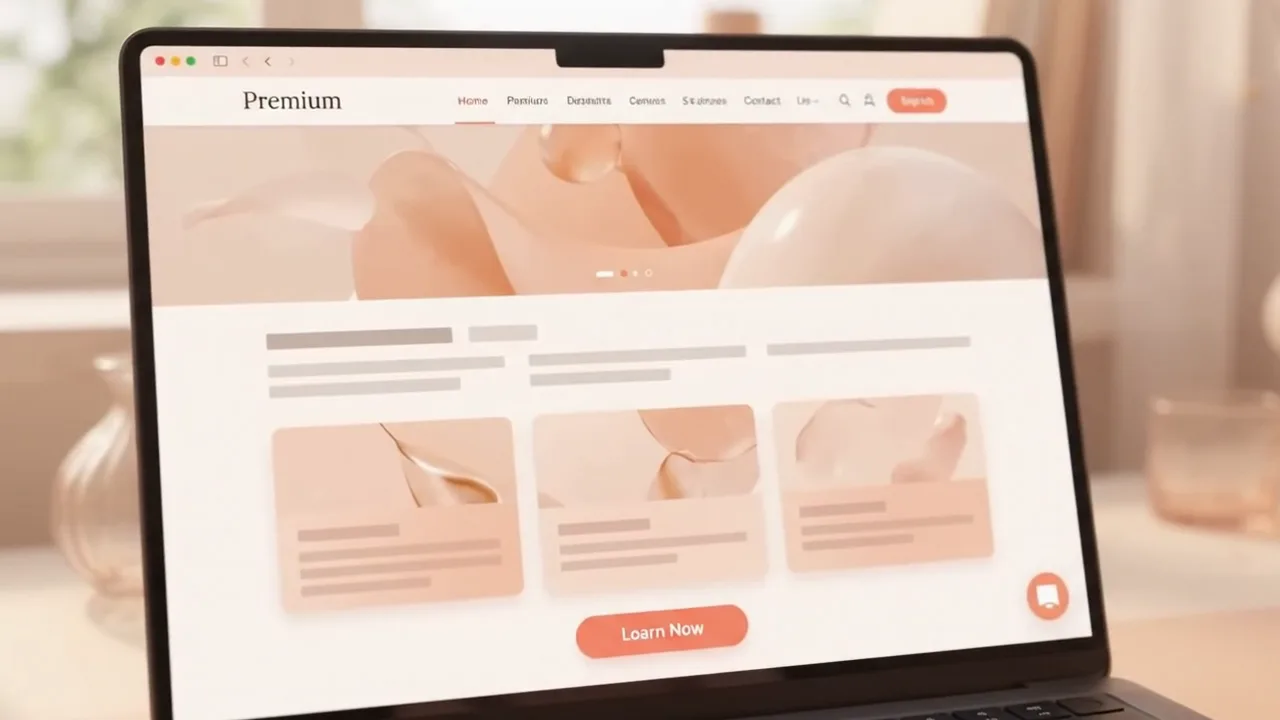
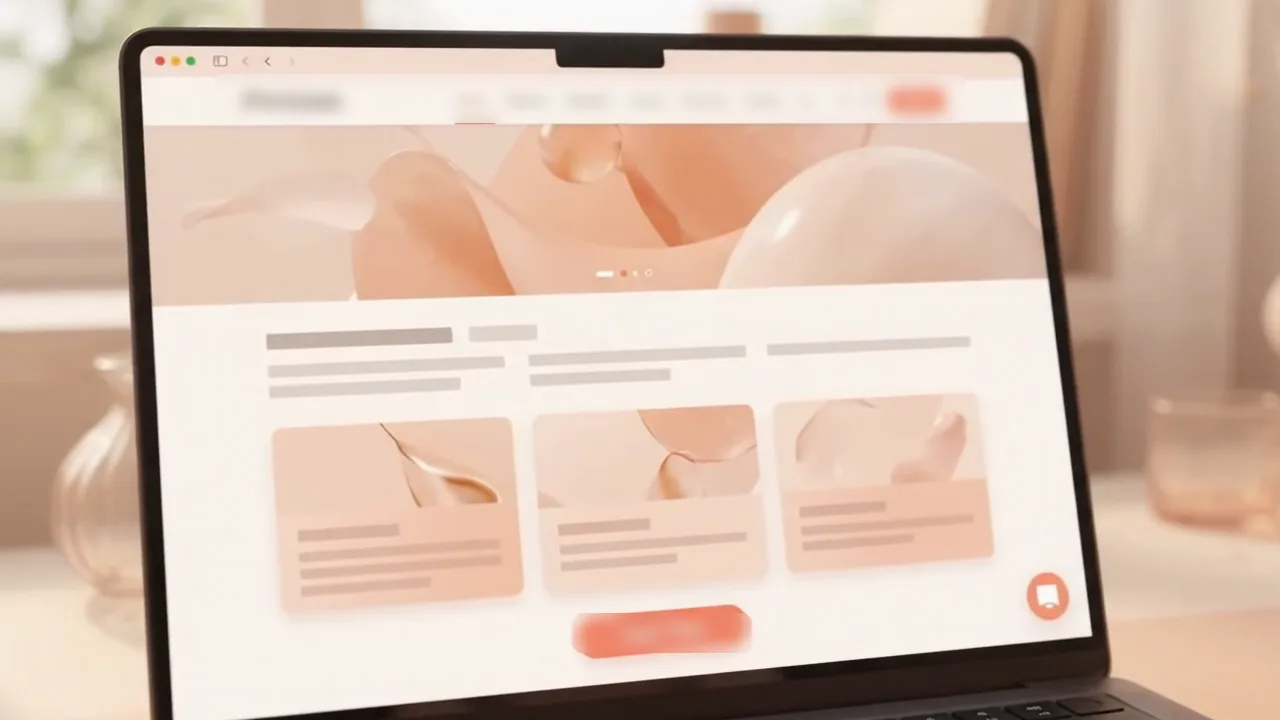
Animate course page headings and blur made-up text in the video
Course pages now animate their head on arrival and reveal each section
title word by word as it scrolls in. The home course video gets tracked
blurs over the lettering Flow invented, and the reduced-motion still is
blurred too. The anti-flash script moves to src/lib/intro.ts.

diff --git a/src/components/CourseScrollVideo.tsx b/src/components/CourseScrollVideo.tsx
@@ -11,6 +11,51 @@ const SRC = "/videos/curso-scroll.mp4";
 const FIRST_FRAME = "/videos/curso-scroll-inicio.webp";
 const LAST_FRAME = "/videos/curso-scroll.webp";
 
+// Blurs over the made-up lettering in the clip (the site's menu bar and its button), as keyframes
+// [second, x0, y0, x1, y1, opacity] in the clip's 1280x720 pixels; positions follow the camera move.
+const W = 1280;
+const H = 720;
+const BLURS: number[][][] = [
+  [
+    [1.2, 525, 232, 745, 254, 0],
+    [1.5, 525, 232, 745, 254, 1],
+    [2.5, 428, 224, 772, 256, 1],
+    [3.5, 405, 204, 782, 242, 1],
+    [4.5, 378, 188, 802, 232, 1],
+    [5.5, 326, 155, 844, 198, 1],
+    [6.5, 276, 118, 894, 165, 1],
+    [7.2, 236, 90, 944, 143, 1],
+    [7.9, 216, 76, 964, 125, 1],
+    [8, 214, 74, 966, 123, 1],
+  ],
+  [
+    [6.0, 618, 575, 702, 607, 0],
+    [6.4, 618, 575, 702, 607, 1],
+    [7.2, 572, 598, 748, 634, 1],
+    [7.9, 572, 612, 752, 652, 1],
+    [8, 572, 613, 752, 653, 1],
+  ],
+];
+
+function placeBlurs(boxes: HTMLElement[], time: number) {
+  boxes.forEach((box, i) => {
+    const keys = BLURS[i];
+    let k = keys.findIndex((key) => key[0] > time);
+    if (k === -1) k = keys.length - 1;
+    const a = keys[Math.max(0, k - 1)];
+    const b = keys[k];
+    const p = b[0] === a[0] ? 1 : Math.min(1, Math.max(0, (time - a[0]) / (b[0] - a[0])));
+    const [, x0, y0, x1, y1, o] = a.map((v, j) => v + (b[j] - v) * p);
+    Object.assign(box.style, {
+      left: `${(x0 / W) * 100}%`,
+      top: `${(y0 / H) * 100}%`,
+      width: `${((x1 - x0) / W) * 100}%`,
+      height: `${((y1 - y0) / H) * 100}%`,
+      opacity: time < keys[0][0] ? "0" : String(o),
+    });
+  });
+}
+
 /** A website building itself on a laptop, driven by scroll: the frame opens up as it enters and the video
  * advances with the page. With reduced motion it shows the finished frame only. */
 export function CourseScrollVideo() {
@@ -44,13 +89,18 @@ export function CourseScrollVideo() {
           },
         );
 
+        const boxes = gsap.utils.toArray<HTMLElement>(".scroll-video-blur", root.current);
+        placeBlurs(boxes, 0);
+
         const playhead = { t: 0 };
         gsap.to(playhead, {
           t: 1,
           ease: "none",
           scrollTrigger: { trigger: root.current, start: "top 75%", end: "bottom 60%", scrub: 0.5 },
           onUpdate: () => {
-            if (el.duration) el.currentTime = playhead.t * (el.duration - 0.05);
+            if (!el.duration) return;
+            el.currentTime = playhead.t * (el.duration - 0.05);
+            placeBlurs(boxes, el.currentTime);
           },
         });
       });
@@ -62,6 +112,9 @@ export function CourseScrollVideo() {
   return (
     <div className="scroll-video" ref={root}>
       <div className="scroll-video-frame">
+        {BLURS.map((_, i) => (
+          <span aria-hidden className="scroll-video-blur" key={i} />
+        ))}
         <video aria-hidden className="scroll-video-media" muted playsInline poster={FIRST_FRAME} preload="auto" ref={video} src={SRC} tabIndex={-1} />
         {/* eslint-disable-next-line @next/next/no-img-element -- static still shown instead of the video with reduced motion */}
         <img alt="Una web terminada en la pantalla de un portátil" className="scroll-video-still" src={LAST_FRAME} />

diff --git a/src/components/CourseAnimator.tsx b/src/components/CourseAnimator.tsx
@@ -1,0 +1,69 @@
+"use client";
+
+import { type ReactNode, useRef } from "react";
+import gsap from "gsap";
+import { ScrollTrigger } from "gsap/ScrollTrigger";
+import { SplitText } from "gsap/SplitText";
+import { useGSAP } from "@gsap/react";
+
+gsap.registerPlugin(useGSAP, ScrollTrigger, SplitText);
+
+/** Rises a heading's words out of their lines, then restores the plain text so it reflows on resize. */
+function riseWords(heading: Element, vars: gsap.TweenVars) {
+  const split = SplitText.create(heading, { type: "words,lines", mask: "lines", wordsClass: "split-word" });
+  return gsap.from(split.words, {
+    yPercent: 110,
+    rotate: 3,
+    stagger: 0.06,
+    duration: 0.75,
+    ease: "power4.out",
+    onComplete: () => split.revert(),
+    ...vars,
+  });
+}
+
+/** Course pages: the page head animates in on arrival and each section heading reveals as it scrolls into view.
+ * Renders the page's .container. */
+export function CourseAnimator({ children }: { children: ReactNode }) {
+  const root = useRef<HTMLDivElement>(null);
+
+  useGSAP(
+    () => {
+      const mm = gsap.matchMedia();
+      mm.add("(prefers-reduced-motion: no-preference)", () => {
+        const q = gsap.utils.selector(root);
+        const head = q("[data-anim='head']")[0];
+
+        if (head) {
+          const h = gsap.utils.selector(head);
+          const wide = window.matchMedia("(min-width: 961px)").matches;
+          const tl = gsap.timeline({ defaults: { ease: "power3.out" } });
+          tl.set(head, { autoAlpha: 1 })
+            .from(h(".eyebrow"), { y: 16, autoAlpha: 0, duration: 0.45, clearProps: "transform" });
+          const title = h("h1")[0];
+          if (title) tl.add(riseWords(title, {}), "-=0.2");
+          tl.from(h(".page-intro"), { y: 20, autoAlpha: 0, duration: 0.5, clearProps: "transform" }, "-=0.45")
+            .from(h(".actions > *"), { y: 18, autoAlpha: 0, stagger: 0.08, duration: 0.45, clearProps: "transform" }, "-=0.3")
+            .from(h(".course-stats"), { ...(wide ? { x: 50 } : { y: 30 }), autoAlpha: 0, duration: 0.7, clearProps: "transform" }, 0.35);
+        }
+
+        q(".section-head").forEach((section) => {
+          const s = gsap.utils.selector(section);
+          const title = s(".section-title")[0];
+          const tl = gsap.timeline({ scrollTrigger: { trigger: section, start: "top 85%", once: true } });
+          tl.from(s(".label"), { y: 12, autoAlpha: 0, duration: 0.4, ease: "power3.out", clearProps: "transform" });
+          if (title) tl.add(riseWords(title, {}), "-=0.15");
+          tl.from(s(".section-sub, .button"), { y: 14, autoAlpha: 0, stagger: 0.08, duration: 0.45, ease: "power3.out", clearProps: "transform" }, "-=0.4");
+        });
+      });
+      return () => mm.revert();
+    },
+    { scope: root },
+  );
+
+  return (
+    <div className="container" ref={root}>
+      {children}
+    </div>
+  );
+}

diff --git a/src/app/globals.css b/src/app/globals.css
@@ -114,7 +114,7 @@ h3 { font-size: 1.08rem; font-weight: 700; letter-spacing: -0.01em; line-height:
 .hero-media { position: relative; width: 100%; max-width: 560px; justify-self: end; }
 .hero-visual { position: relative; width: 100%; aspect-ratio: 1.08; }
 /* Hidden until GSAP assembles it; the fallback reveals it anyway if the script never runs. */
-html.gsap-on .hero-visual, html.gsap-on .hero-copy { visibility: hidden; animation: gsap-fallback 0s 3s forwards; }
+html.gsap-on .hero-visual, html.gsap-on .hero-copy, html.gsap-on [data-anim='head'] { visibility: hidden; animation: gsap-fallback 0s 3s forwards; }
 /* Split headline words: each word carries the gradient itself so it survives the per-word movement. */
 .split-word { display: inline-block; }
 .grad-text:has(.split-word) { background: none; }
@@ -391,9 +391,10 @@ mark.fill { border-radius: 6px; background: rgba(255, 154, 98, 0.22); color: #ff
 .scroll-video-frame { position: relative; overflow: hidden; aspect-ratio: 16 / 9; border-radius: 28px; background: #f6e7dd; box-shadow: var(--shadow-lift); will-change: clip-path, transform; }
 .scroll-video-media, .scroll-video-still { position: absolute; inset: 0; width: 100%; height: 100%; object-fit: cover; }
 .scroll-video-still { display: none; }
+.scroll-video-blur { position: absolute; z-index: 1; border-radius: 10px; opacity: 0; -webkit-backdrop-filter: blur(7px); backdrop-filter: blur(7px); pointer-events: none; }
 .scroll-video-caption { margin-top: 12px; color: var(--muted); font-size: 0.92rem; text-align: center; }
 @media (prefers-reduced-motion: reduce) {
-  .scroll-video-media { display: none; }
+  .scroll-video-media, .scroll-video-blur { display: none; }
   .scroll-video-still { display: block; }
 }
 .checklist-done { margin-top: 14px; border-radius: 14px; background: rgba(40, 180, 120, 0.1); color: #12805c; font-weight: 700; padding: 12px 16px; }

diff --git a/src/app/curso/page.tsx b/src/app/curso/page.tsx
@@ -1,11 +1,13 @@
 import type { Metadata } from "next";
 import Link from "next/link";
 import { ArrowRight, CheckCircle, Clock, Lock, XCircle } from "@phosphor-icons/react/dist/ssr";
+import { CourseAnimator } from "@/components/CourseAnimator";
 import { CourseProgress, ModuleProgress } from "@/components/Progress";
 import { RouteAnimator } from "@/components/RouteAnimator";
 import { ResourceGrid } from "@/components/ResourceGrid";
 import { availableModules, modules } from "@/content/curso";
 import { resources } from "@/content/recursos";
+import { GSAP_SCRIPT } from "@/lib/intro";
 import { contactHref } from "@/lib/site";
 
 export const metadata: Metadata = {
@@ -28,8 +30,9 @@ export default function CursoPage() {
   return (
     <main className="main" id="contenido" tabIndex={-1}>
       <div aria-hidden className="page-bg calm" />
-      <div className="container">
-        <div className="page-head course-head">
+      <script dangerouslySetInnerHTML={{ __html: GSAP_SCRIPT }} />
+      <CourseAnimator>
+        <div className="page-head course-head" data-anim="head">
           <div>
             <p className="eyebrow">Curso gratuito</p>
             <h1>
@@ -185,7 +188,7 @@ export default function CursoPage() {
             </span>
           </a>
         </div>
-      </div>
+      </CourseAnimator>
     </main>
   );
 }

diff --git a/src/app/competencias-digitales/page.tsx b/src/app/competencias-digitales/page.tsx
@@ -1,9 +1,11 @@
 import type { Metadata } from "next";
 import Link from "next/link";
 import { ArrowRight, Clock, Lock } from "@phosphor-icons/react/dist/ssr";
+import { CourseAnimator } from "@/components/CourseAnimator";
 import { CourseProgress, ModuleProgress } from "@/components/Progress";
 import { RouteAnimator } from "@/components/RouteAnimator";
 import { availableDigitalModules, digitalModules } from "@/content/competencias";
+import { GSAP_SCRIPT } from "@/lib/intro";
 import { contactHref } from "@/lib/site";
 
 export const metadata: Metadata = {
@@ -25,8 +27,9 @@ export default function CompetenciasPage() {
   return (
     <main className="main" id="contenido" tabIndex={-1}>
       <div aria-hidden className="page-bg calm" />
-      <div className="container">
-        <div className="page-head course-head">
+      <script dangerouslySetInnerHTML={{ __html: GSAP_SCRIPT }} />
+      <CourseAnimator>
+        <div className="page-head course-head" data-anim="head">
           <div>
             <p className="eyebrow">Curso gratuito · nivel cero</p>
             <h1>
@@ -140,7 +143,7 @@ export default function CompetenciasPage() {
             </span>
           </Link>
         </div>
-      </div>
+      </CourseAnimator>
     </main>
   );
 }

diff --git a/src/app/page.tsx b/src/app/page.tsx
@@ -18,10 +18,10 @@ import {
 import { BrandLogo } from "@/components/BrandLogo";
 import { CountUp } from "@/components/CountUp";
 import { CourseScrollVideo } from "@/components/CourseScrollVideo";
-import { HERO_SCRIPT, HeroAnimator } from "@/components/HeroAnimator";
+import { HeroAnimator } from "@/components/HeroAnimator";
 import { HowItWorks } from "@/components/HowItWorks";
 import { IntroVideo } from "@/components/IntroVideo";
-import { INTRO_SCRIPT } from "@/lib/intro";
+import { GSAP_SCRIPT, INTRO_SCRIPT } from "@/lib/intro";
 import { MlLogo } from "@/components/MlLogo";
 import { ResourceMarquee } from "@/components/ResourceMarquee";
 import { availableModules, modules } from "@/content/curso";
@@ -153,7 +153,7 @@ export default function Home() {
   return (
     <main className="main" id="contenido" tabIndex={-1}>
       <script dangerouslySetInnerHTML={{ __html: INTRO_SCRIPT }} />
-      <script dangerouslySetInnerHTML={{ __html: HERO_SCRIPT }} />
+      <script dangerouslySetInnerHTML={{ __html: GSAP_SCRIPT }} />
       <IntroVideo />
       <div className="container">
         <HeroAnimator>

diff --git a/src/lib/intro.ts b/src/lib/intro.ts
@@ -2,3 +2,6 @@ export const INTRO_SEEN_KEY = "vcc:intro-visto";
 
 /** Runs before first paint: first visit only, and never for people who asked for reduced motion. */
 export const INTRO_SCRIPT = `(function(){try{if(!localStorage.getItem("${INTRO_SEEN_KEY}")&&!matchMedia("(prefers-reduced-motion: reduce)").matches)document.documentElement.dataset.intro="1"}catch(e){}})()`;
+
+/** Before first paint: lets GSAP-animated blocks start hidden (html.gsap-on); never for reduced motion. */
+export const GSAP_SCRIPT = `(function(){try{if(!matchMedia("(prefers-reduced-motion: reduce)").matches)document.documentElement.classList.add("gsap-on")}catch(e){}})()`;

diff --git a/src/components/HeroAnimator.tsx b/src/components/HeroAnimator.tsx
@@ -9,9 +9,6 @@ import { useGSAP } from "@gsap/react";
 
 gsap.registerPlugin(useGSAP, ScrollTrigger, SplitText, TextPlugin);
 
-/** Before first paint: hide the hero so it can animate in; never for reduced motion. */
-export const HERO_SCRIPT = `(function(){try{if(!matchMedia("(prefers-reduced-motion: reduce)").matches)document.documentElement.classList.add("gsap-on")}catch(e){}})()`;
-
 /** The hero: the headline rises word by word, then the illustration builds itself piece by piece and drifts on scroll. */
 export function HeroAnimator({ children }: { children: ReactNode }) {
   const root = useRef<HTMLDivElement>(null);
